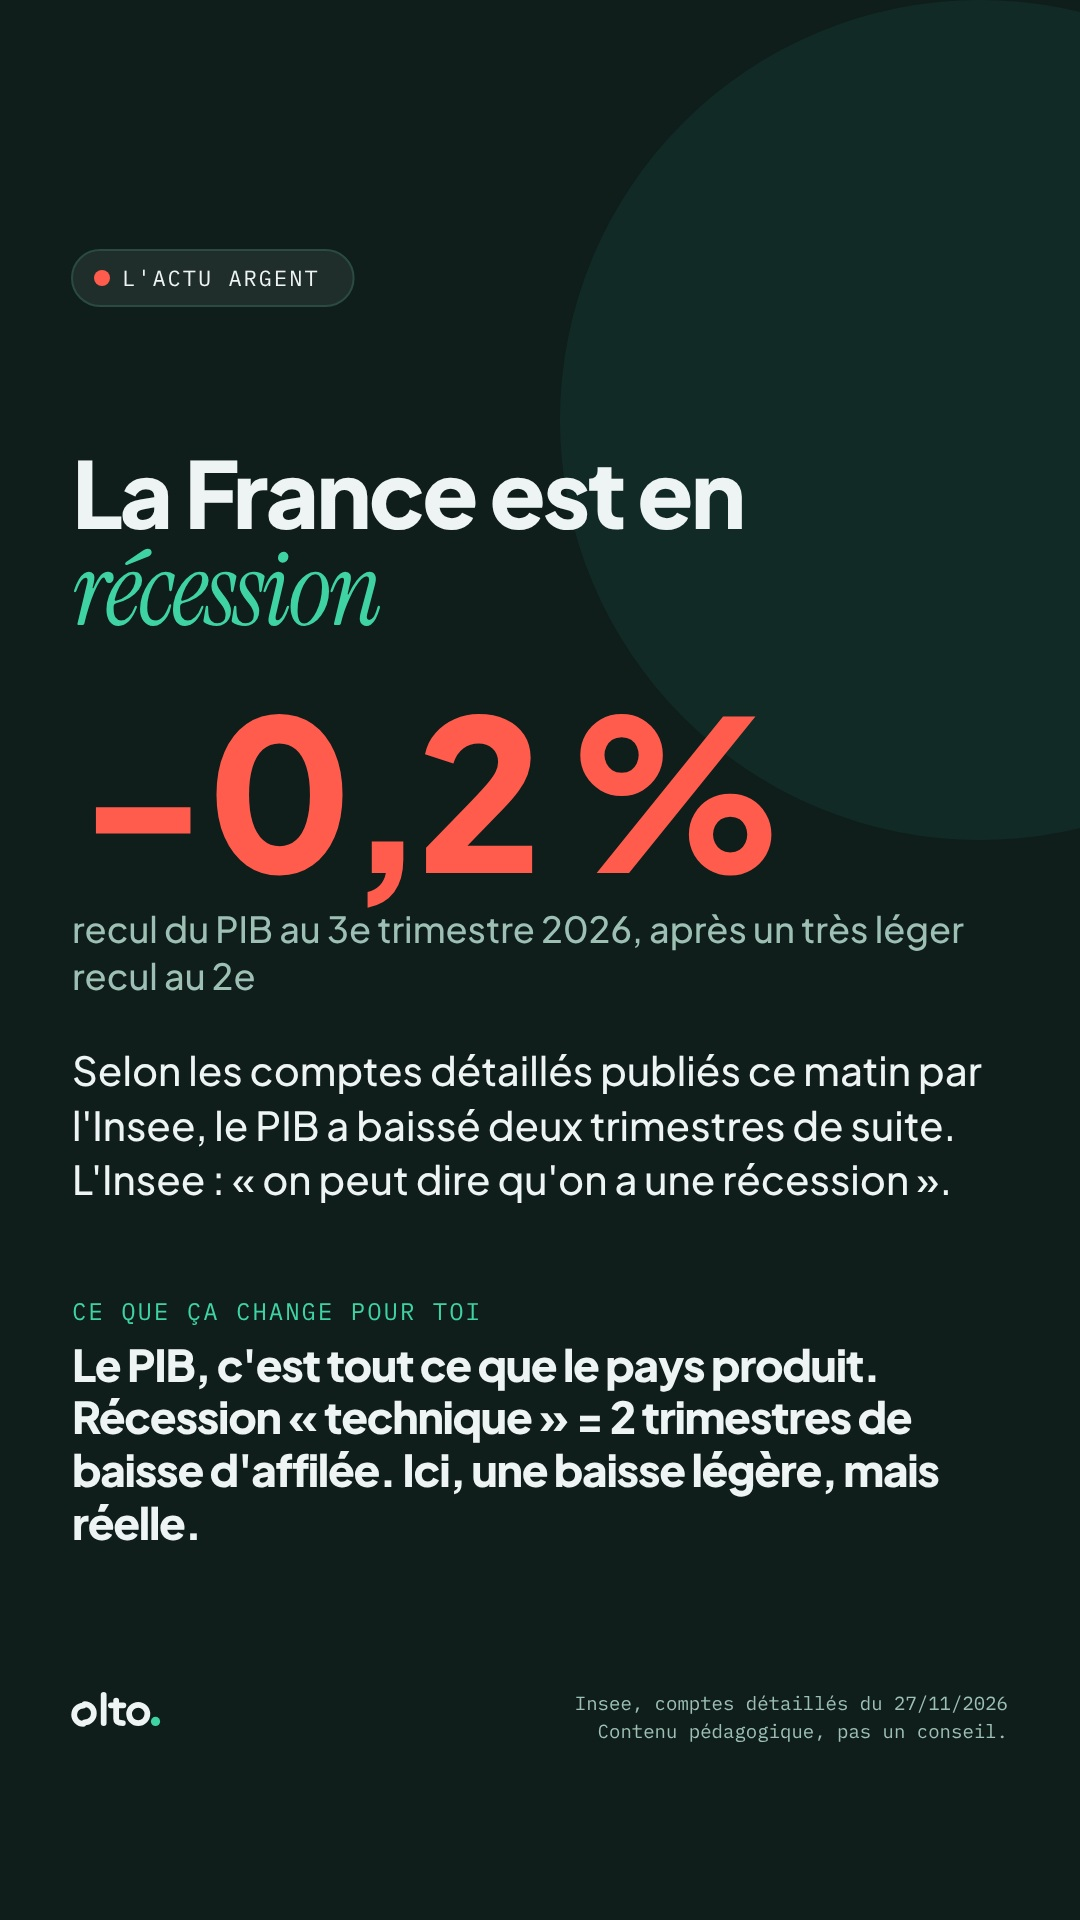
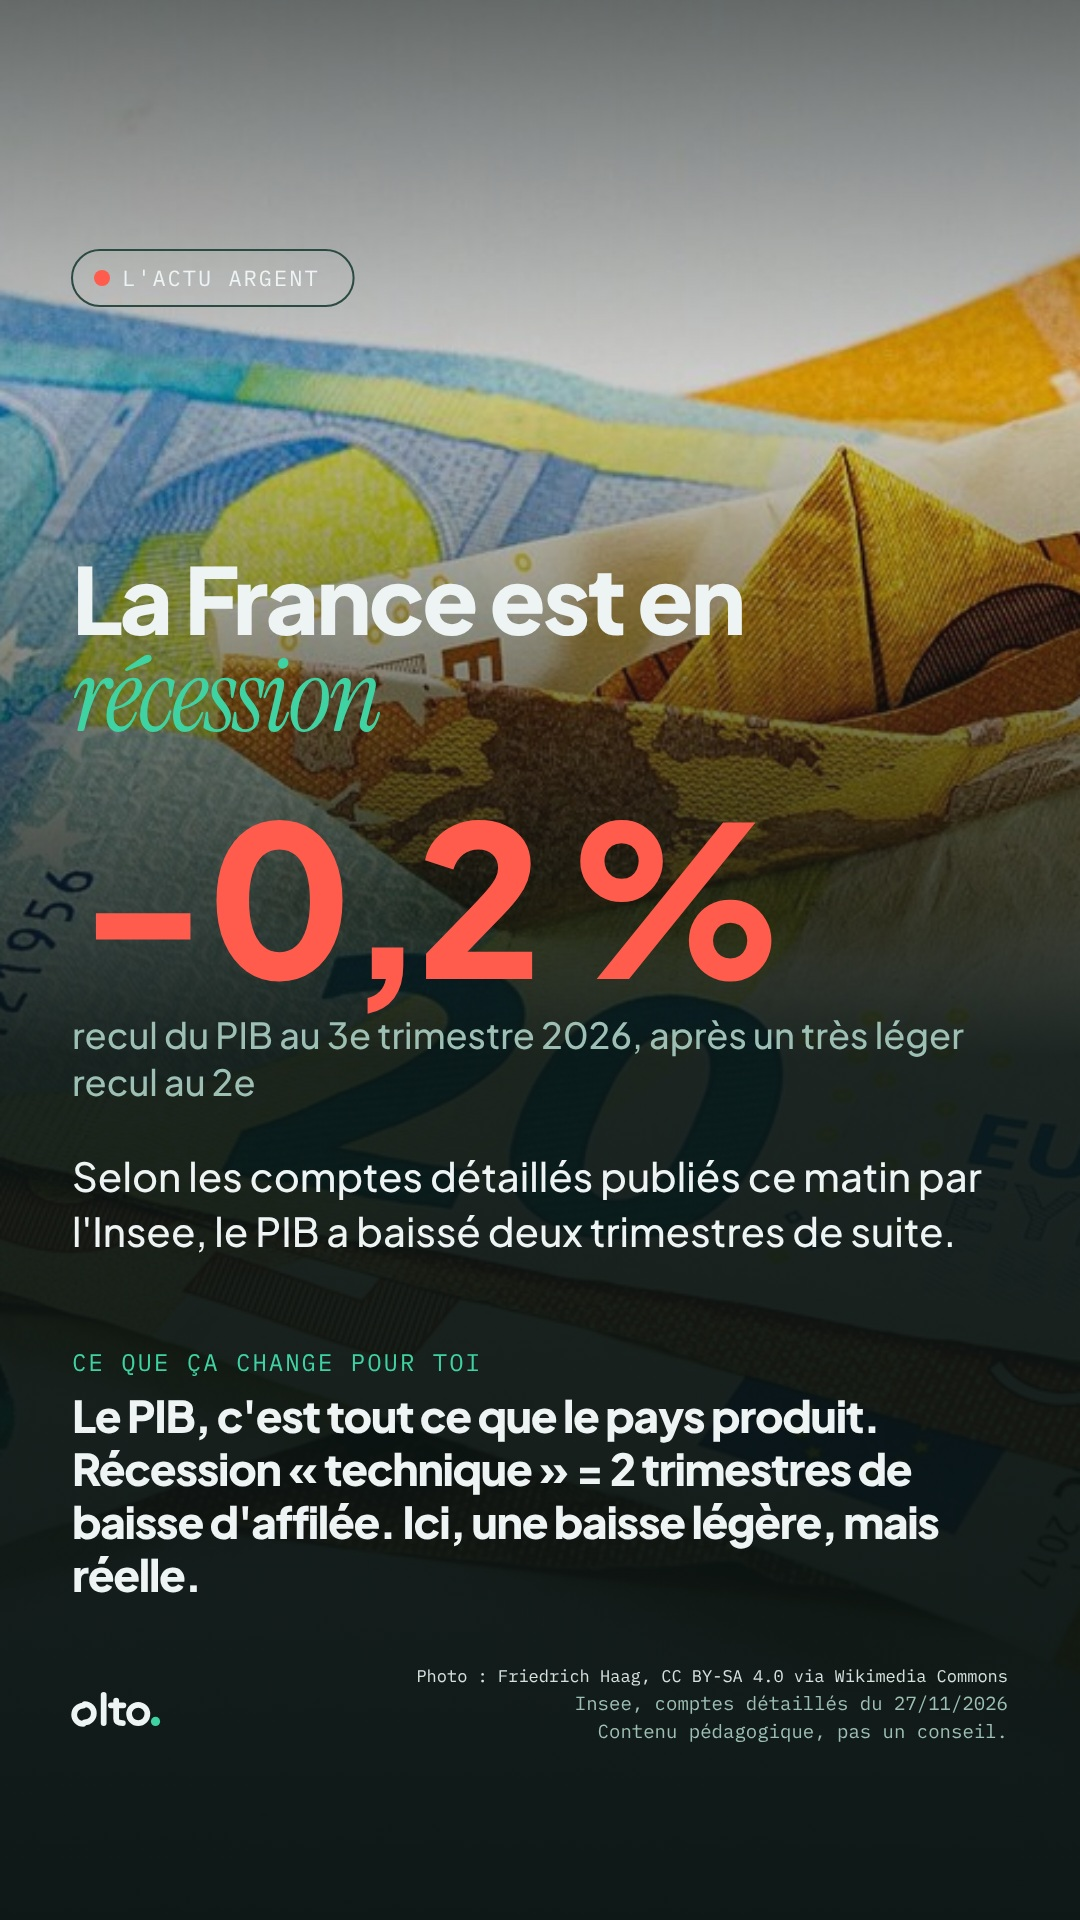
Flash actu : photo plein cadre (Instagram + TikTok) ; récession avec photo
Claude-Session: https://claude.ai/code/session_01JkSZMspFK3rxYTF87cJYE3

diff --git a/render/studio.js b/render/studio.js
@@ -262,15 +262,18 @@ function storyTK(st,side){st=st||{};const up=side!=='baisses';const H=1920;const
 function actuSVG(a,fmt){a=a||{};const tk=fmt==='tiktok';
  /* 26/11 : TikTok = même mise en page que « la une » du Top 5 (bloc compact, texte large, sans carte ni pied de page) */
  if(tk){const W=760;let o=`<svg xmlns="http://www.w3.org/2000/svg" xmlns:xlink="http://www.w3.org/1999/xlink" viewBox="0 0 1080 1920" width="1080" height="1920">${bg(true,1920)}`;let y=0;
+  const ph=a.photo||{};if(ph.src&&typeof window!=='undefined')window.__PLEIN={src:ph.src};
   o+=chip("L'actu argent",true,C.sig,0,0);y=110;
   if(a.titre){const ts=fit(a.titre,W,3,104,64);const tb=textBlock(a.titre,0,y+ts*.8,ts,W,C.iv,C.ja);o+=tb.svg;y+=tb.h+50}
   if(a.chiffre){const cs=fit(a.chiffre,W,1,120,72);y+=cs*.78;o+=`<text x="0" y="${y}" font-family="PJ" font-weight="800" font-size="${cs}" letter-spacing="${-cs*.04}" fill="${/^[−-]/.test(String(a.chiffre))?C.sig:C.ja}">${X(a.chiffre)}</text>`;y+=24;
    if(a.label){const lb=textBlock(a.label,0,y+34,34,W,'#D5E2DE',C.ja,'m',1.3);o+=lb.svg;y+=lb.h+20}}
-  if(a.texte){const d=textBlock(a.texte,0,y+50,34,W,'#D5E2DE',C.ja,'m',1.36);o+=d.svg;y+=d.h+40}
+  if(a.texte&&!ph.src){/* avec photo : le détail passe dans la légende */const d=textBlock(a.texte,0,y+50,34,W,'#D5E2DE',C.ja,'m',1.36);o+=d.svg;y+=d.h+40}
   if(a.impact){o+=`<rect x="0" y="${y+14}" width="8" height="10" fill="none"/><text x="0" y="${y+40}" font-family="PM" font-size="22" letter-spacing="2" fill="${C.ja}">CE QUE ÇA CHANGE POUR TOI</text>`;const kb=textBlock(a.impact,0,y+40+56,40,W,C.iv,C.ja,'b',1.2);o+=kb.svg;y+=40+kb.h+40}
-  o+=`<text x="0" y="${y+30}" font-family="PM" font-size="20" fill="#D5E2DE">${X(String(a.source||'').slice(0,60))} · Contenu pédagogique, pas un conseil.</text>`;
+  o+=`<text x="0" y="${y+30}" font-family="PM" font-size="20" fill="#D5E2DE">${X(String(a.source||'').slice(0,52))}</text><text x="0" y="${y+60}" font-family="PM" font-size="20" fill="#D5E2DE">Contenu pédagogique, pas un conseil.</text>`;y+=30;
+  if(ph.credit)o+=`<text x="0" y="${y+62}" font-family="PM" font-size="17" fill="#D5E2DE">${X(String(ph.credit).slice(0,62))}</text>`;
   return o+'</svg>'}const X0=tk?60:72,MW=tk?((typeof window!=='undefined'&&window.__TKW)||740):936,T0=tk?330:250,FY=tk?1570:1702;const H=1920;
  let o=`<svg xmlns="http://www.w3.org/2000/svg" viewBox="0 0 1080 ${H}" width="1080" height="${H}">${bg(true,H)}${tk?TKFADE:''}`;
+ const PH=(a.photo&&a.photo.src)?a.photo:null;if(PH&&!tk){const gid='ap'+(++PHN);o+=`<image data-plein="1" href="${X(PH.src)}" x="0" y="0" width="1080" height="${H}" preserveAspectRatio="xMidYMid slice"/><defs><linearGradient id="${gid}" x1="0" y1="0" x2="0" y2="1"><stop offset="0" stop-color="#0A1412" stop-opacity=".6"/><stop offset=".2" stop-color="#0A1412" stop-opacity=".15"/><stop offset=".38" stop-color="#0A1412" stop-opacity=".55"/><stop offset=".55" stop-color="#0A1412" stop-opacity=".92"/><stop offset="1" stop-color="#0A1412" stop-opacity=".98"/></linearGradient></defs><rect width="1080" height="${H}" fill="url(#${gid})"/>`}
  o+=chip("L'actu argent",true,C.sig,X0,T0);const head=o;o='';
  const ts=fit(a.titre||'',MW,4,tk?84:92,56);const tb=textBlock(a.titre||'',X0,T0+130+ts*.85,ts,MW,C.iv,C.ja);o+=tb.svg;let y=T0+130+ts*.85+(tb.lines-1)*ts*1.04+80;
  if(a.chiffre){const cs=fit(a.chiffre,MW,1,tk?190:210,100);y+=cs*.8;o+=`<text x="${X0}" y="${y}" font-family="PJ" font-weight="800" font-size="${cs}" letter-spacing="${-cs*.04}" fill="${/^[−-]/.test(String(a.chiffre))?C.sig:C.ja}">${X(a.chiffre)}</text>`;y+=40;
@@ -278,8 +281,8 @@ function actuSVG(a,fmt){a=a||{};const tk=fmt==='tiktok';
  if(a.texte){const d=textBlock(a.texte,X0,y+50,tk?36:40,MW,C.iv,C.ja,'m',1.36);o+=d.svg;y+=d.h+50}
  if(a.impact){/* 26/11 : plus de carte, même style que TikTok et la une */o+=`<text x="${X0}" y="${y+70}" font-family="PM" font-size="24" letter-spacing="2" fill="${C.ja}">CE QUE ÇA CHANGE POUR TOI</text>`;const kb=textBlock(a.impact,X0,y+70+62,44,MW,C.iv,C.ja,'b',1.2);o+=kb.svg;y+=70+kb.h+30}
  {const av=(FY-100)-T0,hh=y-T0;/* trop haut : on réduit le bloc au lieu de déborder sur le pied de page (25/11) */
- o=head+(hh>av?`<g transform="translate(${X0},${T0}) scale(${(av/hh).toFixed(4)}) translate(${-X0},${-T0})">${o}</g>`:`<g transform="translate(0,${Math.max(0,Math.round(((FY-70)-y)/2))})">${o}</g>`);}
- o+=`<g transform="translate(${X0},${FY}) scale(.24)">${LOGO(C.iv,C.ja)}</g>`;
+ o=head+(PH&&hh<=av?`<g transform="translate(0,${Math.round((FY-90)-y)})">${o}</g>`:hh>av?`<g transform="translate(${X0},${T0}) scale(${(av/hh).toFixed(4)}) translate(${-X0},${-T0})">${o}</g>`:`<g transform="translate(0,${Math.max(0,Math.round(((FY-70)-y)/2))})">${o}</g>`);}
+ o+=`<g transform="translate(${X0},${FY}) scale(.24)">${LOGO(C.iv,C.ja)}</g>`;if(PH&&PH.credit)o+=`<text x="${X0+MW}" y="${FY-20}" text-anchor="end" font-family="PM" font-size="17" fill="#D5E2DE">${X(String(PH.credit).slice(0,70))}</text>`;
  o+=`<text x="${X0+MW}" y="${FY+8}" text-anchor="end" font-family="PM" font-size="19" fill="${C.pm}">${X(String(a.source||'').slice(0,52))}</text>`;
  o+=`<text x="${X0+MW}" y="${FY+36}" text-anchor="end" font-family="PM" font-size="19" fill="${C.pm}">Contenu pédagogique, pas un conseil.</text>`;
  return o+'</svg>'}

diff --git a/render/page.html b/render/page.html
@@ -3,7 +3,7 @@
 body{margin:0;background:#000}#out{width:1080px}#out svg{display:block}</style></head><body><div id="out"></div>
 <script src="studio.js"></script><script>window.TKFADE_ON=(new URLSearchParams(location.search)).get("fade")!=="0";
 (async()=>{await OltoStudio.ready();window.IMGS=await OltoStudio.images();
-window.show=(kind,data,i,fmt)=>{let svg;if(kind==='une')svg=OltoStudio.uneSVG(data,fmt);else if(kind==='top5')svg=fmt==='tiktok-h'?OltoStudio.storyTK(data,'hausses'):fmt==='tiktok-b'?OltoStudio.storyTK(data,'baisses'):OltoStudio.storySVG(data);else if(kind==='actu')svg=OltoStudio.actuSVG(data,fmt);else if(kind==='mot')svg=OltoStudio.motSVG(data,IMGS,fmt);else svg=OltoStudio.slideSVG(data,data.slides[i],i,data.slides.length,IMGS,fmt);if(fmt&&String(fmt).startsWith('tiktok')){const BX=()=>window.__PLEIN?{x0:50,x1:890,y0:640,y1:1555,max:1.5}:undefined;let f=OltoStudio.fitTK(svg,BX());
+window.show=(kind,data,i,fmt)=>{let svg;if(kind==='une')svg=OltoStudio.uneSVG(data,fmt);else if(kind==='top5')svg=fmt==='tiktok-h'?OltoStudio.storyTK(data,'hausses'):fmt==='tiktok-b'?OltoStudio.storyTK(data,'baisses'):OltoStudio.storySVG(data);else if(kind==='actu')svg=OltoStudio.actuSVG(data,fmt);else if(kind==='mot')svg=OltoStudio.motSVG(data,IMGS,fmt);else svg=OltoStudio.slideSVG(data,data.slides[i],i,data.slides.length,IMGS,fmt);if(fmt&&String(fmt).startsWith('tiktok')){const BX=()=>window.__PLEIN?{x0:50,x1:890,y0:kind==='actu'?480:640,y1:1555,max:1.5}:undefined;let f=OltoStudio.fitTK(svg,BX());
  /* 26/11 : même largeur de texte partout (référence : la une du Top 5). Si le contenu est trop haut, on l'élargit pour qu'il se réorganise au lieu de rétrécir dans un bloc étroit. */
  if((kind==='actu'||kind==='mot'||kind==='slide')){const W0=kind==='slide'?760:740;let w=W0,pl=window.__PLEIN;for(let k=0;k<6;k++){const t=window.__TKFIT||{};if(!t.sh||t.sh>=t.sw*0.97)break;w=Math.min(W0*1.7,w*Math.pow(t.sw/t.sh,0.7));window.__TKW=w;window.__PLEIN=pl;const s2=kind==='actu'?OltoStudio.actuSVG(data,fmt):kind==='mot'?OltoStudio.motSVG(data,IMGS,fmt):OltoStudio.slideSVG(data,data.slides[i],i,data.slides.length,IMGS,fmt);pl=window.__PLEIN;f=OltoStudio.fitTK(s2,BX())}window.__TKW=null}
  svg=OltoStudio.tallTK(f,window.TKH||2340)}document.getElementById('out').innerHTML=svg;return true};

diff --git a/render/render.py b/render/render.py
@@ -21,6 +21,7 @@ def inline_photos(data):
     items += [sc for sc in ((data.get('reel') or {}).get('scenes') or []) if isinstance(sc, dict) and sc.get('src')]
     st = data.get('story') if isinstance(data.get('story'), dict) else data
     items += [((st.get('une') or {}).get('photo'))] if isinstance(st, dict) else []
+    items += [((data.get('actu') or {}).get('photo'))] if isinstance(data.get('actu'), dict) else []
     for ph in items:
         if not ph or not ph.get('src') or str(ph['src']).startswith(('data:', 'http')): continue
         p = (HERE.parent / ph['src']).resolve()
